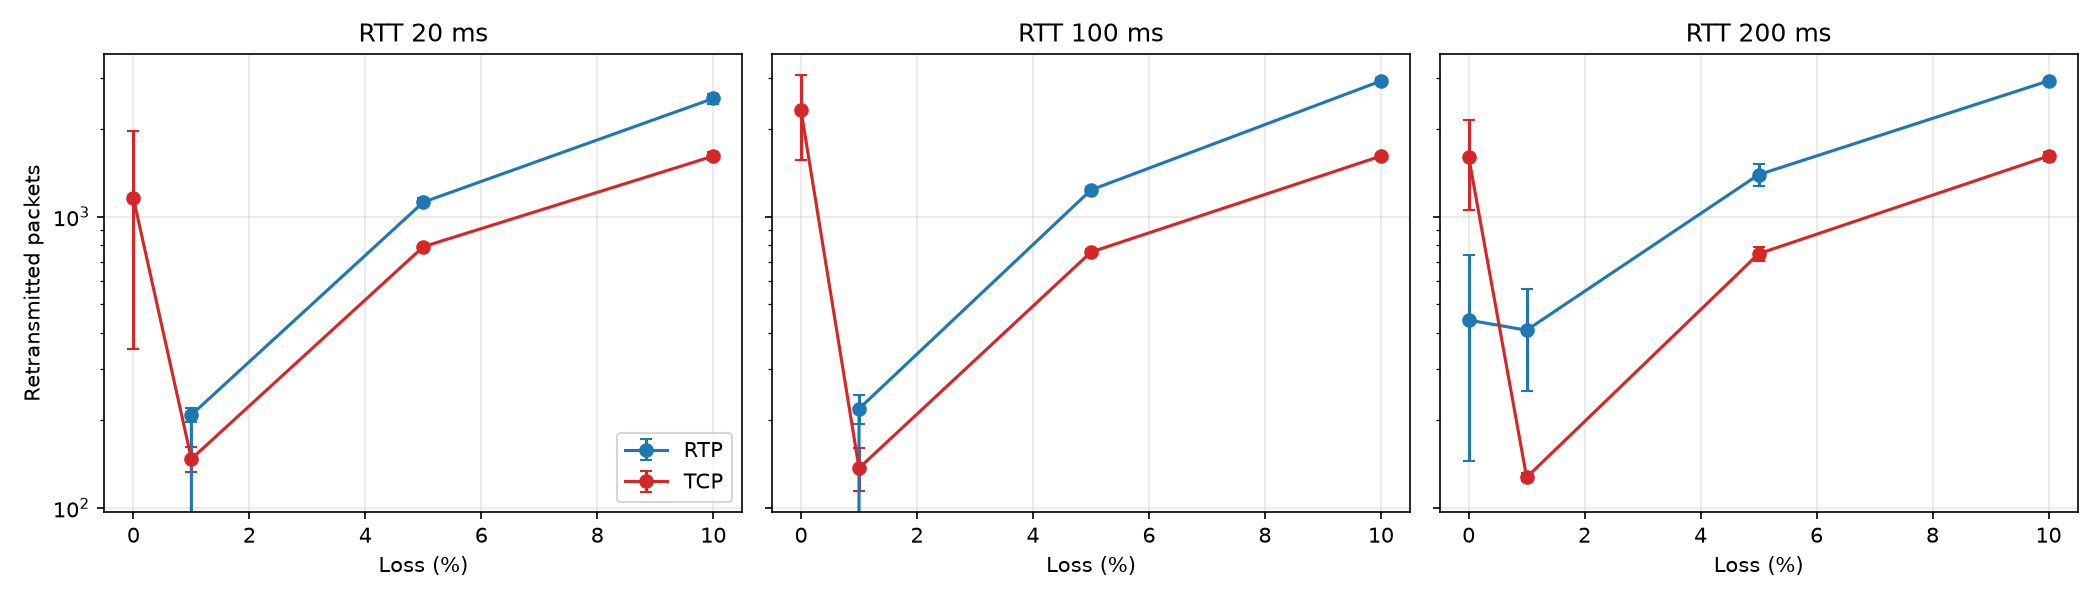
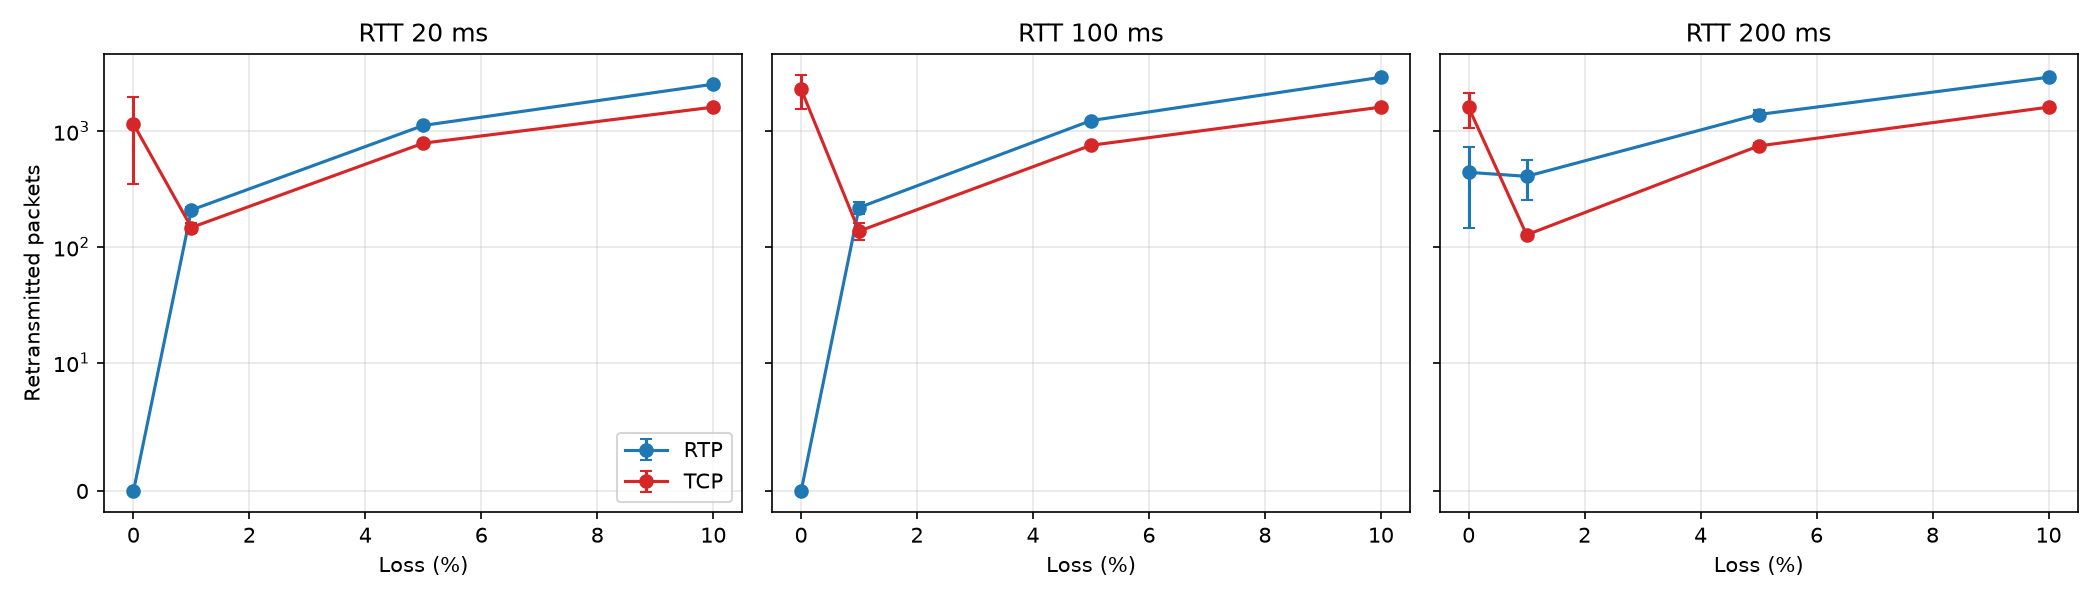
analyze: symlog axis for retransmission plot

diff --git a/tools/analyze.py b/tools/analyze.py
@@ -73,12 +73,12 @@ def lines(metric, ylabel, fname, log=False):
             a.errorbar(t.loss, t[metric + "_mean"], yerr=t[metric + "_std"],
                        marker="o", capsize=3, label=p.upper(), color=COL[p])
         a.set_title(f"RTT {rtt} ms"); a.set_xlabel("Loss (%)"); a.grid(alpha=.3)
-        if log: a.set_yscale("log")
+        if log: a.set_yscale("symlog", linthresh=10) if log == "symlog" else a.set_yscale("log")
     ax[0].set_ylabel(ylabel); ax[0].legend()
     fig.tight_layout(); fig.savefig(f"{OUT}/{fname}", dpi=150); plt.close(fig)
 
 lines("goodput", "Goodput (Mbit/s)", "goodput_vs_loss.png", log=True)
-lines("retx", "Retransmitted packets", "retx_vs_loss.png", log=True)
+lines("retx", "Retransmitted packets", "retx_vs_loss.png", log="symlog")
 
 fig, ax = plt.subplots(1, 2, figsize=(10, 4), sharey=True)
 for a, p in zip(ax, ["rtp", "tcp"]):
